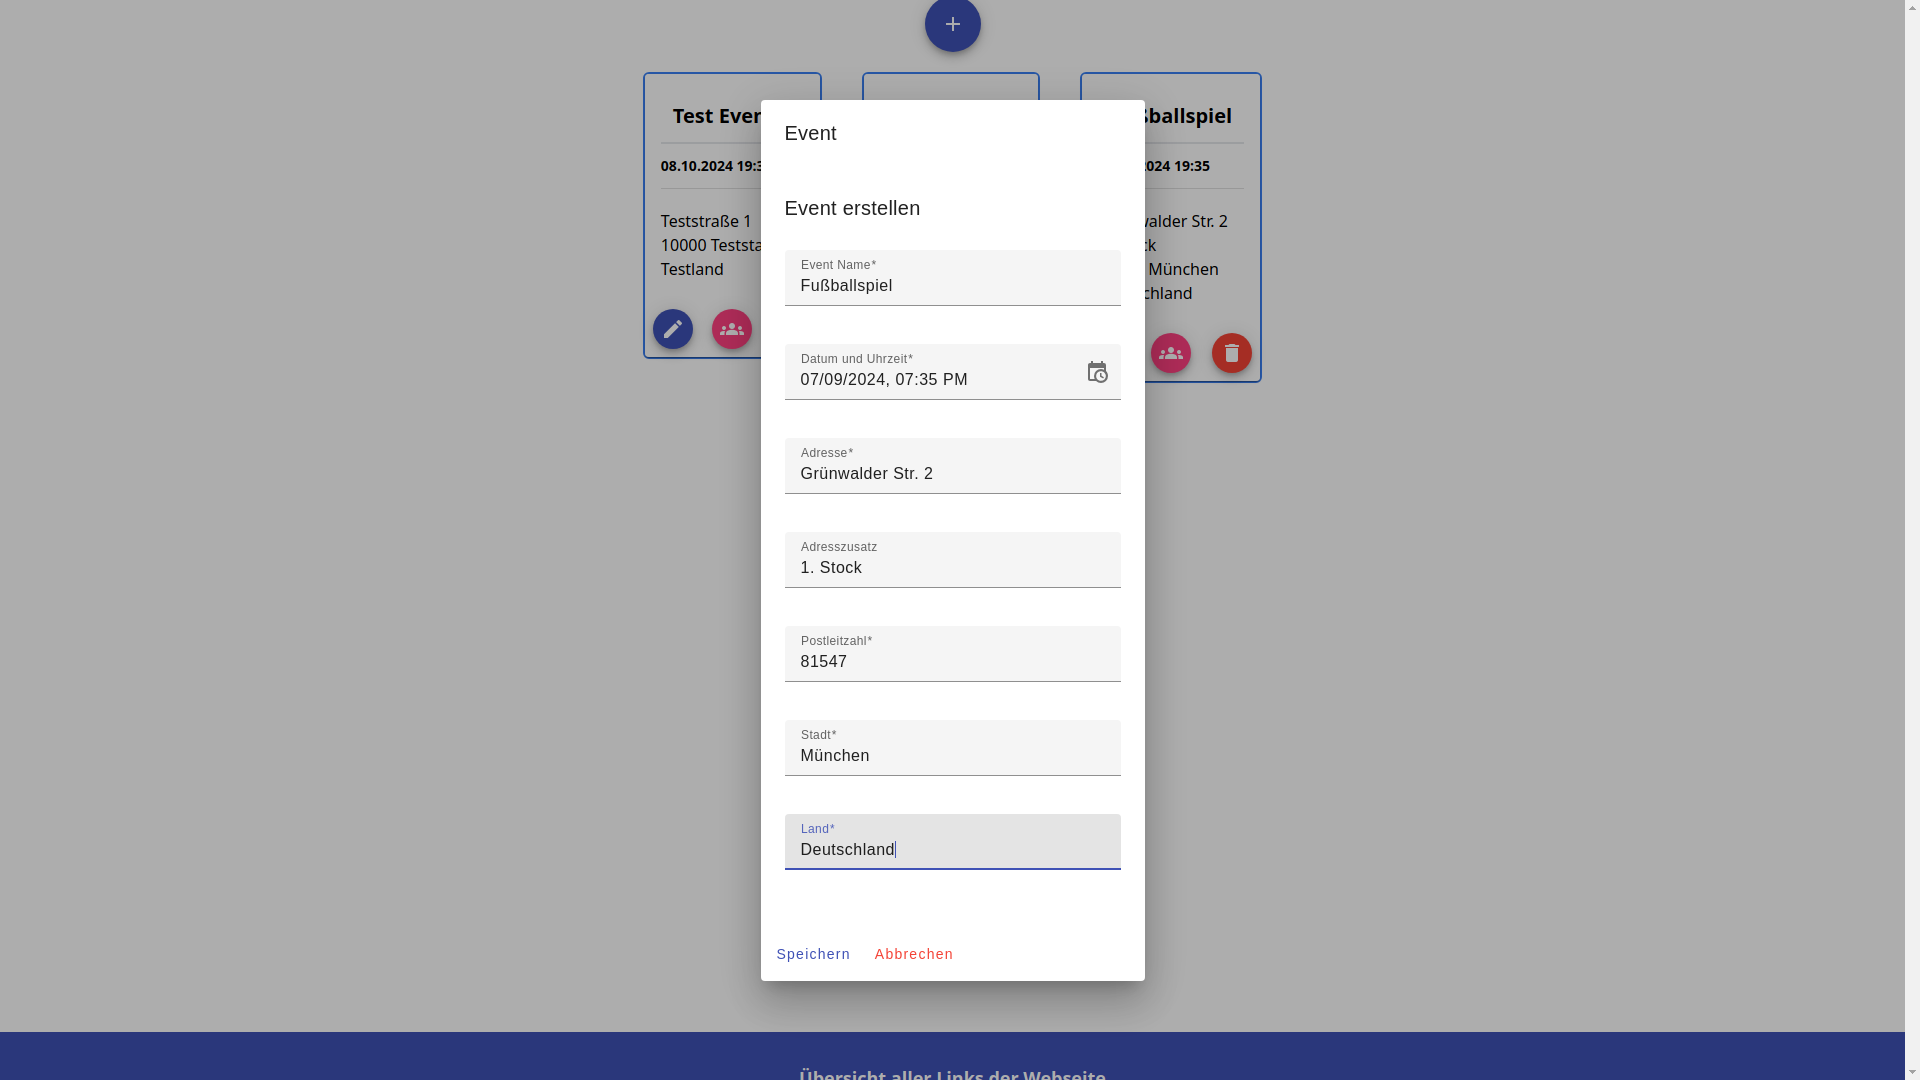
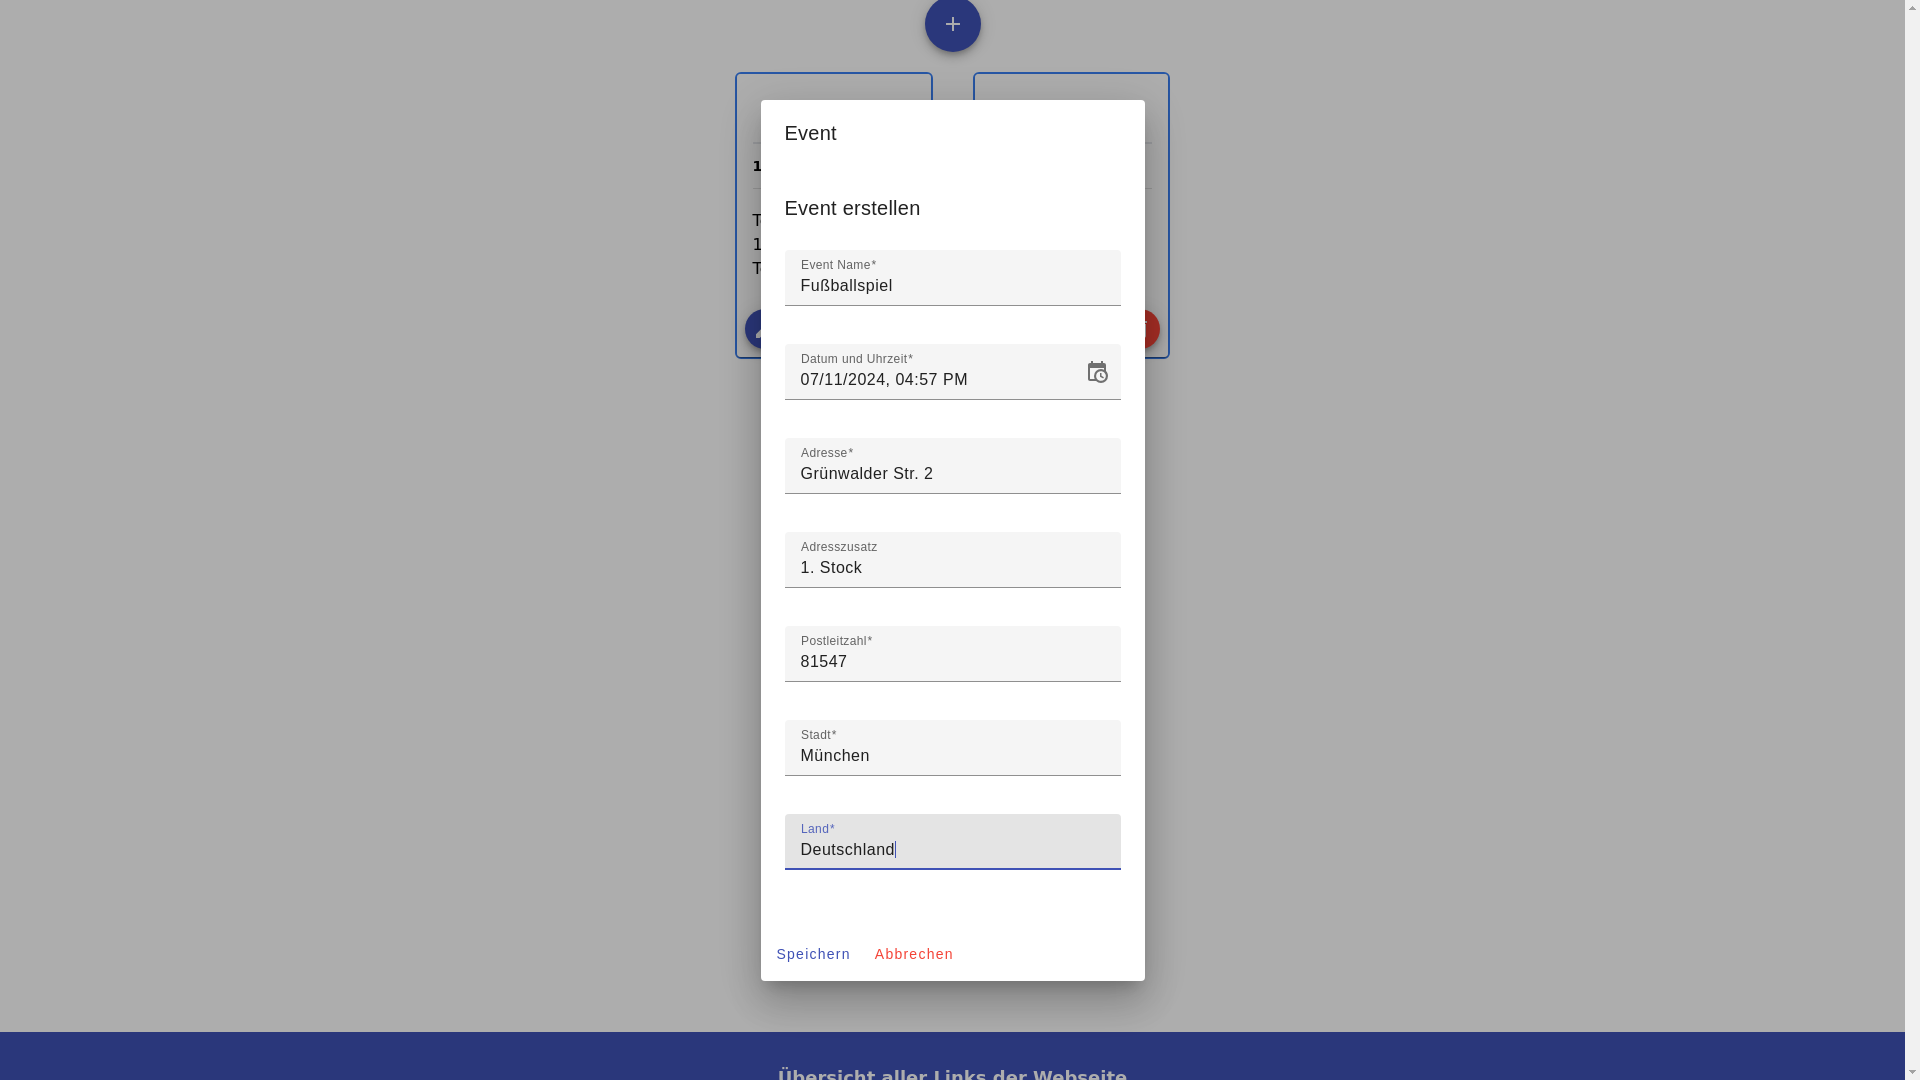
improved test

diff --git a/apps/party-time-frontend-17/-e2e/src/e2e/F001.cy.ts b/apps/party-time-frontend-17/-e2e/src/e2e/F001.cy.ts
@@ -17,6 +17,7 @@ describe(createEventGroup, () => {
   const generateEvent =
     'Veranstalter sollten in der Lage sein, ein neues Event anzulegen, indem sie ein Formular ausfüllen, in dem sie alle relevanten Informationen zum Event (Name des Events, Datum, Uhrzeit, Veranstaltungsort) angeben.';
   it(generateEvent, () => {
+    // eslint-disable-next-line cypress/no-unnecessary-waiting
     cy.wait(300);
     cy.get('.flex-row > .mdc-fab > .mat-mdc-button-touch-target').click();
     cy.get('[data-cy="event-name-input"]').type('Fußballspiel');
@@ -30,6 +31,7 @@ describe(createEventGroup, () => {
       capture: 'viewport',
     });
     cy.get('[data-cy="save-button"]').click();
+cy.scrollTo('top');
     cy.screenshot(getScreenshotPath(requirement, createEventGroup, '3'), {
       overwrite: true,
       capture: 'viewport',
